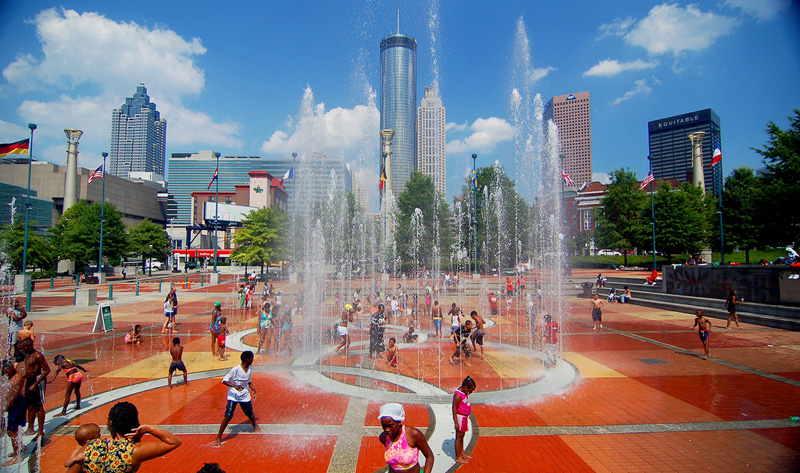
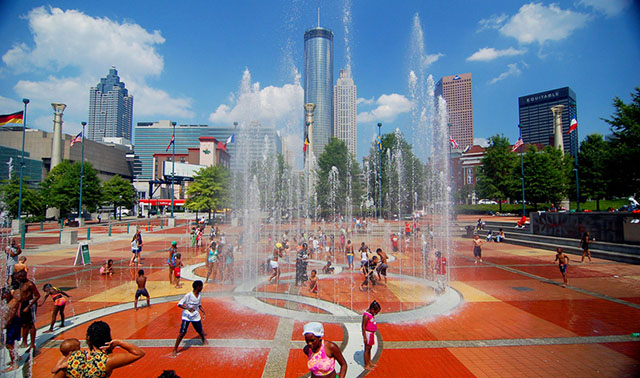
img size adjust

diff --git a/index.html b/index.html
@@ -64,7 +64,7 @@
 			<article>
 				<h2>Attractions</h2>
 				
-				<img src="images/atl_olympic_park.jpg" width="800" height="473" alt="Overview of Atlanta Olympic Park" />
+				<img src="images/atl_olympic_park.jpg" width="640" height="378" alt="Overview of Atlanta Olympic Park" />
 				<p>There's a lot to do here and it might even require 
 				a few extra days to see everything!. The must see Downtown 
 				Atlanta attractions like the World of Coca Cola, Georgia Aquarium,
@@ -83,7 +83,7 @@
 			<article>
 				<h2>After Dark</h2>
 				
-				<img src="images/atl_nightlife.jpg" width="1000" height="311" alt="Alive After Five Nightlife &amp; Entertainment advertisement" />
+				<img src="images/atl_nightlife.jpg" width="640" height="199" alt="Alive After Five Nightlife &amp; Entertainment advertisement" />
 				<p>When the sun sets, Atlanta nightlife starts heating up! No 
 				matter what style of nightlife you're craving, you're sure to 
 				find it in Atlanta. Explore the unique melting pot of fun giving 
